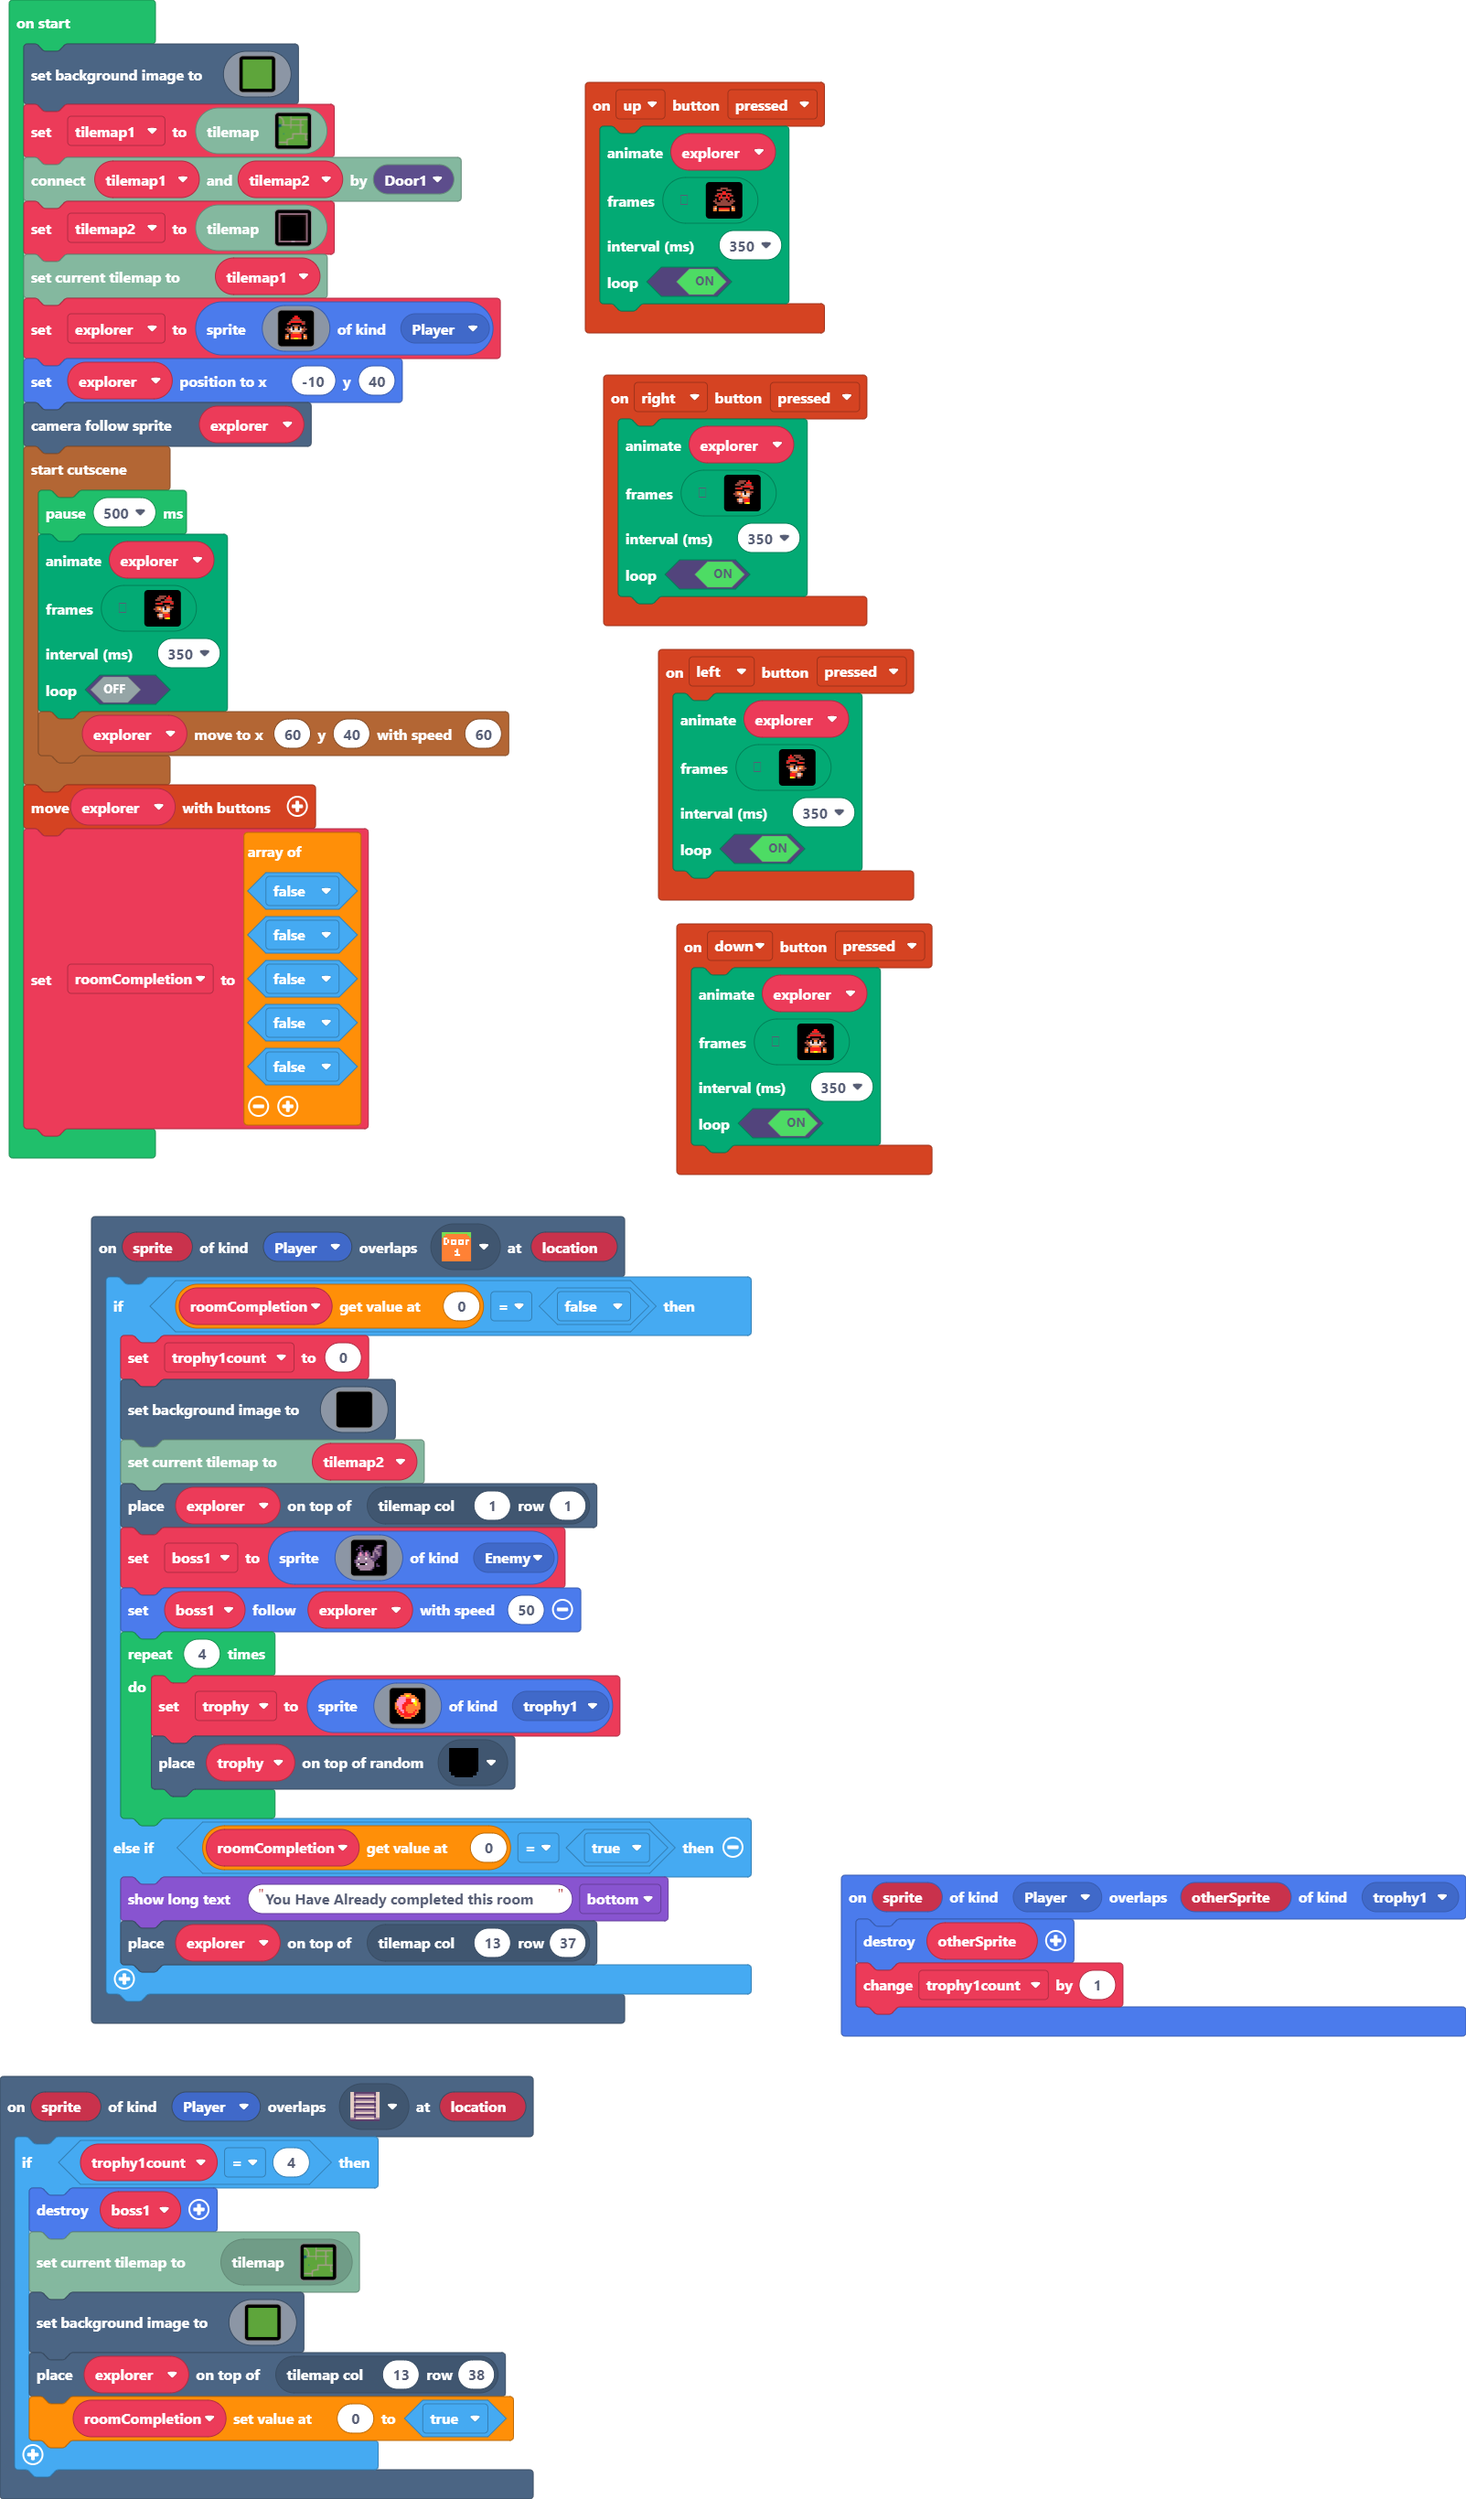
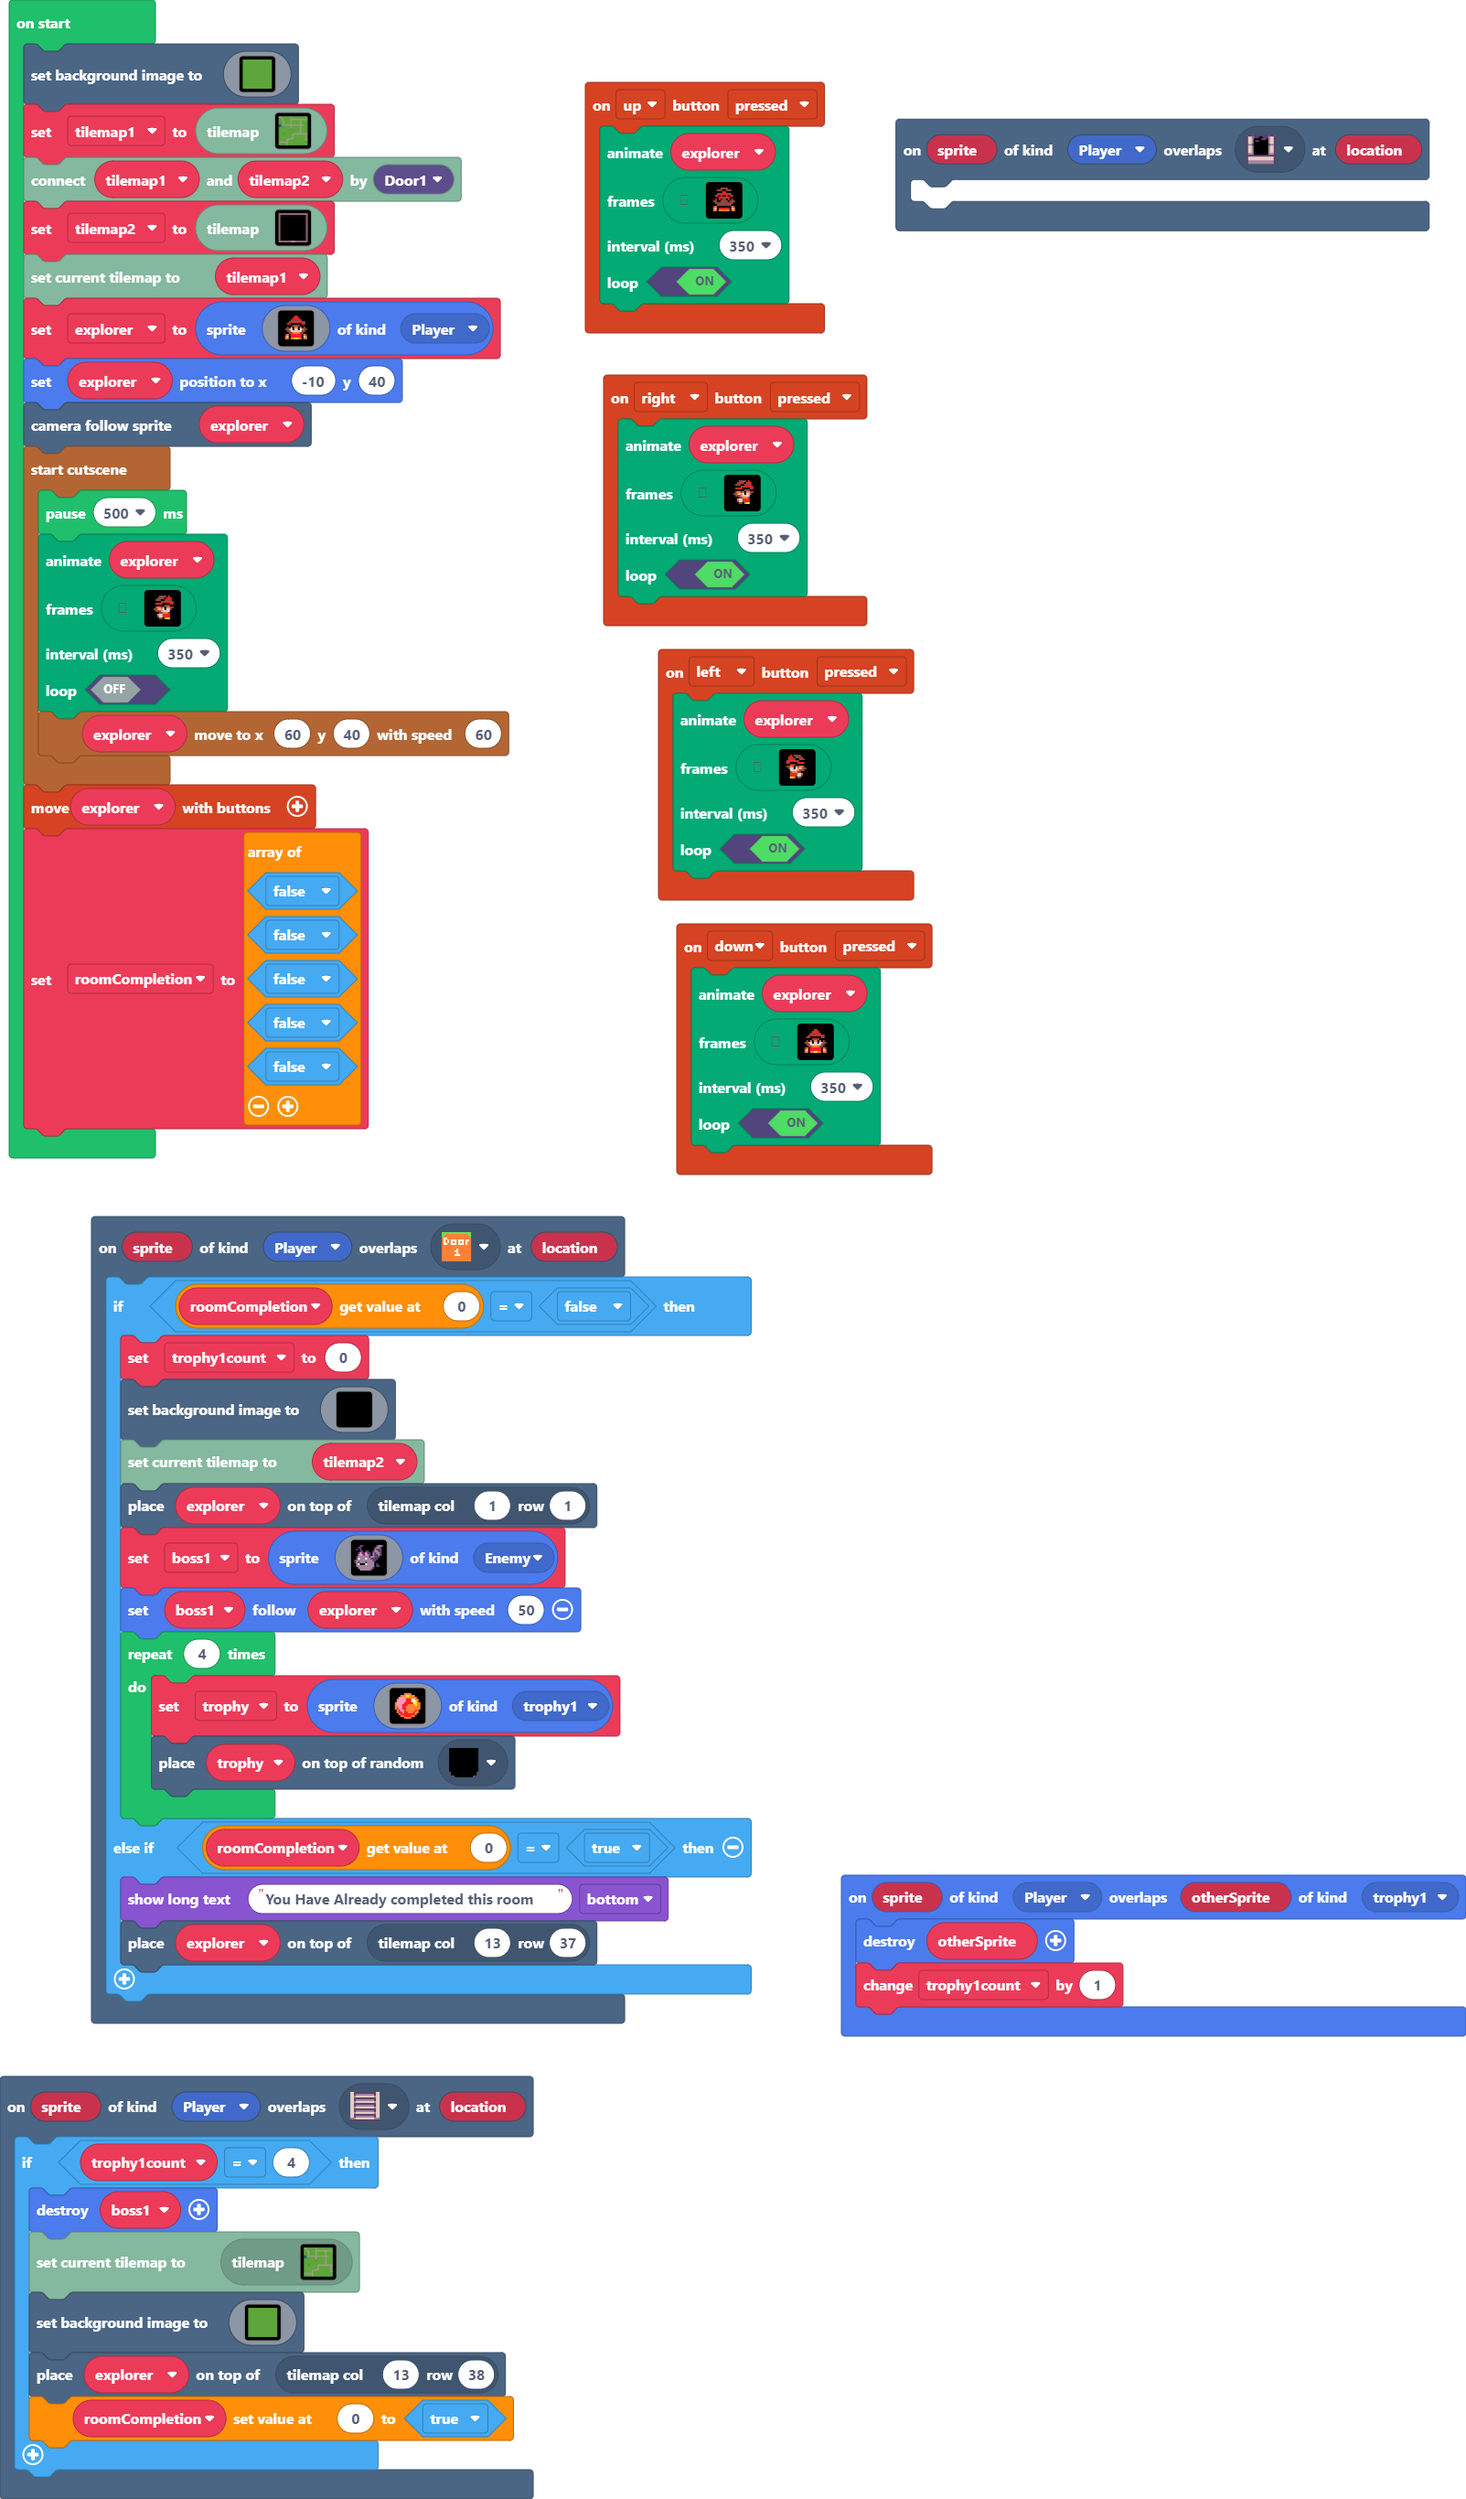
Update main.blocks, main.ts

Changed region(s): [[0.5926, 0.0311, 0.9981, 0.0933]]

diff --git a/main.ts b/main.ts
@@ -215,6 +215,9 @@ scene.onOverlapTile(SpriteKind.Player, sprites.dungeon.stairNorth, function (spr
         roomCompletion[0] = true
     }
 })
+scene.onOverlapTile(SpriteKind.Player, sprites.dungeon.doorOpenSouth, function (sprite, location) {
+	
+})
 scene.onOverlapTile(SpriteKind.Player, tiles.util.door0, function (sprite, location) {
     if (roomCompletion[0] == false) {
         trophy1count = 0
